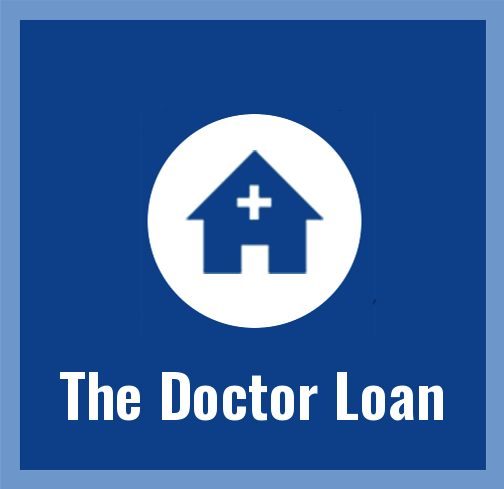
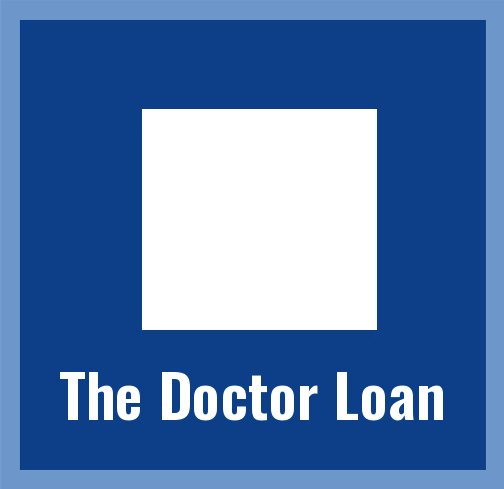
new buttons

Changed region(s): [[0.2679, 0.2147, 0.7738, 0.6748], [0.3571, 0.3067, 0.6548, 0.5828]]

diff --git a/app/assets/stylesheets/mbr-bootstrap.min.self-284e9de4b83af461c76d7fbe082.css b/app/assets/stylesheets/mbr-bootstrap.min.self-284e9de4b83af461c76d7fbe082.css
@@ -2874,3 +2874,97 @@ td.visible-print{display:table-cell !important;}
   font-style:italic;
   text-shadow:1px 1px 1px #005797;
 }
+
+.buttons-container {
+    float: left;
+    display: block;
+    margin-right: 2.35765%;
+    width: 100%;
+    max-height: 245px;
+    -moz-box-sizing: border-box;
+    box-sizing: border-box;
+    -webkit-transition: color,background .3s;
+    transition: color,background .3s;
+    border: 10px solid #7fa9d4;
+    margin-bottom: 2.35765%;
+    padding: 4em 0;
+    text-align: center;
+    background: #09539a;
+    color: #ffffff;
+
+}
+
+
+
+.buttons-container:hover {
+  background-color: #ffffff;
+}
+
+a {
+  text-decoration: none;
+}
+
+.my_button_text {
+  color: #ffffff;
+  margin-top: 25px;
+  font-size: 30px;
+  letter-spacing: 0.5px
+  font-family: oswald;
+  text-shadow: 1px 1px 1px rgba(0,0,0,0.004);
+  text-rendering: optimizeLegibility !important;
+z-indexwebkit-font-smoothing: antialiased !important;
+}
+.buttons-container:hover .my_button_text {
+  display:none;
+}
+.buttons-container:hover .button-icon {
+  display:none;
+}
+.hover-button-text {
+
+  color: #09539a;
+  margin-top: 25px;
+  font-size: 20px;
+  letter-spacing: 1px
+  font-family: oswald;
+  text-shadow: 1px 1px 1px rgba(0,0,0,0.004);
+  text-rendering: optimizeLegibility !important;
+  z-indexwebkit-font-smoothing: antialiased !important;
+  display:none;
+
+}
+.link-description {
+  color: #09539a;
+  text-decoration:bold;
+  font-family: oswald;
+  display:none;
+}
+.buttons-container:hover .link-description {
+  display:block;
+
+}
+
+.buttons-container:hover .hover-button-text {
+  display:block;
+
+}
+
+
+.button-icon {
+  height:35%;
+  width:35%;
+  padding: 0 0px;
+}
+
+.^="icon-", .*=" icon-" {
+    font-family: 'socrata-icons';
+    speak: none;
+    font-style: normal;
+    font-weight: normal;
+    font-variant: normal;
+    text-transform: none;
+    line-height: 1;
+    -webkit-font-smoothing: antialiased;
+  }
+
+
